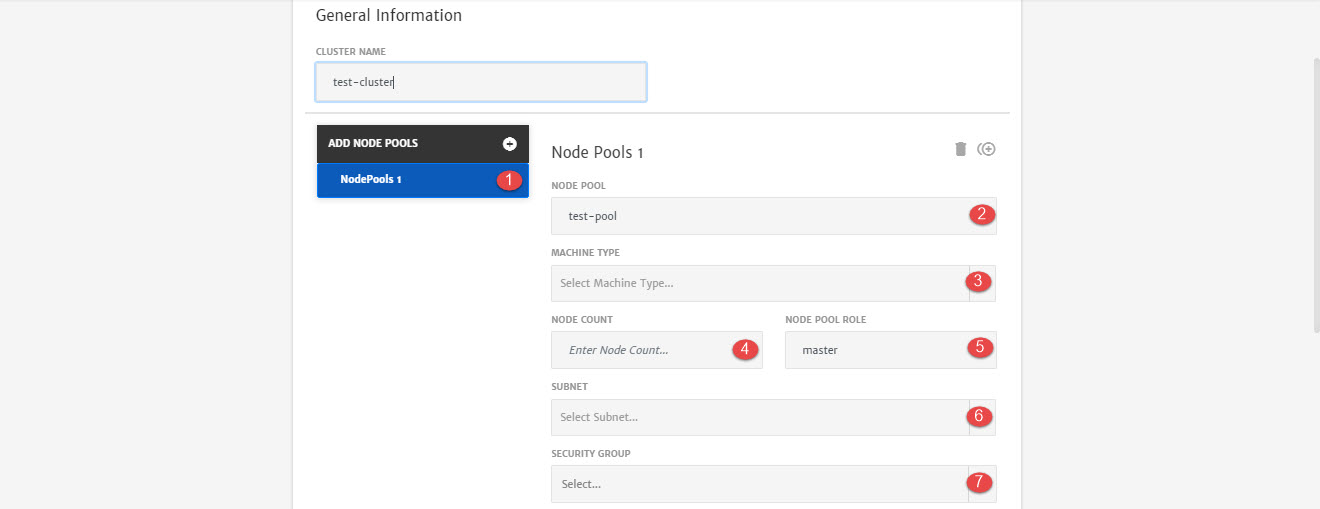
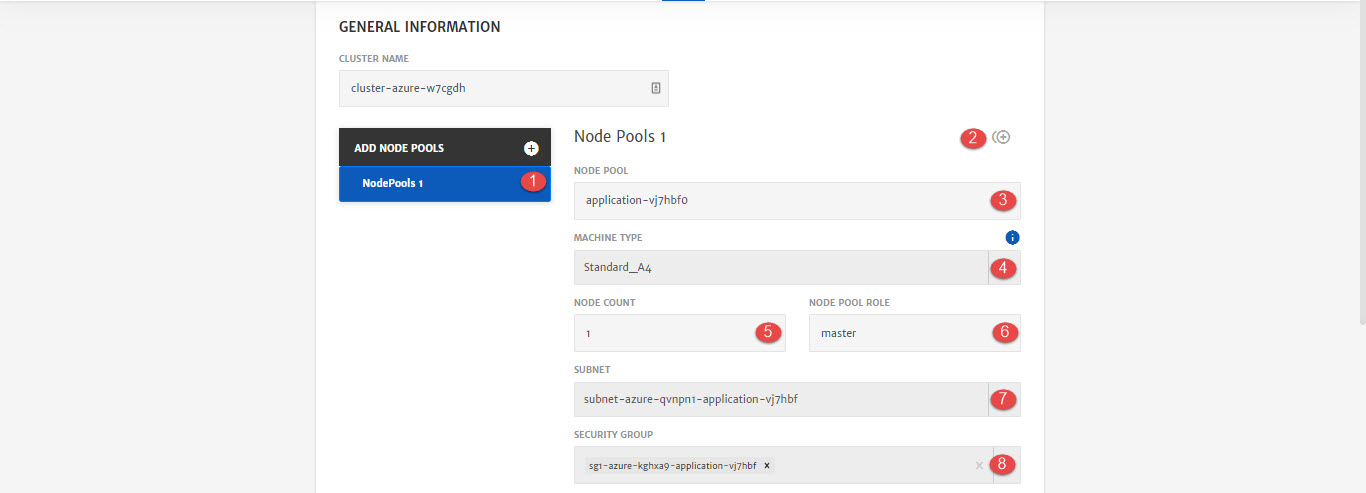
updated-7-6-20

diff --git a/pages/user-guide/getting-started/um-new-cluster/um-new-cluster.md b/pages/user-guide/getting-started/um-new-cluster/um-new-cluster.md
@@ -37,6 +37,12 @@
    - Most of the fields are preconfigured, but you can also customize them.
    - Select **Credential Type** from dropdown, i.e. **Key** in this case, select **Key Type** i.e. **New**, **Enter Key Name** and click **Generate**. A side menu will open, click **Save** and new SSH key will be generated. 
 
+     > While saving the key, you can also download the key for future use by checking **Download Key** option.
+
+   ![9.1](imgs/9.1.jpg)
+
+   ![9.2](imgs/9.2.jpg)
+
 7. Click **Next** at the top right of screen.
 
 8. (Optional) Configure **Kubernetes**.
@@ -55,19 +61,21 @@
 
 10. Design application using **App Designer**.
 
-    > As part of this guide, we will only configure the minimum settings necessary to deploy the container. For detailed configurations, please check our detailed guide by clicking [here](/pages/user-guide/components/container-services/container-services).
+    > As part of this guide, we will only configure the minimum settings necessary to deploy the container. For detailed configurations, please check our detailed guide by clicking [here](/pages/user-guide/components/k8s-resources/container/container).
 
-    - Drag and drop the **Container** in the package canvas from left column.
+    - Drag and drop the **Container** service in K8s resources from left column in to the canvas.
 
     - Click on **Container** icon to configure the settings. (Platform has provided default values for most of the parameters) 
 
       - Specify **Image Name** and **Tag**.
-      - Go to **Environment Variables** menu and add Variable. It is necessary to add at least one variable which in our case is **MYSQL_ROOT_PASSWORD**.
 
       ![2.2](imgs/2.2.jpg)
+
+      - Go to **Environment Variables** menu and **Add Static** Variable. It is necessary to add at least one variable which in our case is **MYSQL_ROOT_PASSWORD**.
+
       ![2.3](imgs/2.3.jpg)
 
-      - Go to the **Ports**, click **Add Port** button and specify the port for Traffic i.e. **8080**
+      - Go to the **Ports**, click **Add Port** button and specify the port for Traffic i.e. **8080**.
 
       ![2.4](imgs/2.4.jpg)
 
@@ -83,8 +91,8 @@
 
 13. Once an application is started, platform automatically redirect to **Logs** tab. Logs help in monitoring of different phases of application deployment.
 
-![4](imgs/4.jpg)
+    ![4](imgs/4.jpg)
 
-11. To check in-depth flow of traffic, go to the **Monitoring** tab.
+14. To check in-depth flow of traffic, go to the **Monitoring** tab.
 
-![5](imgs/5.jpg)
+    ![5](imgs/5.jpg)

diff --git a/pages/user-guide/components/cluster/gcp-cluster/gcp-cluster.md b/pages/user-guide/components/cluster/gcp-cluster/gcp-cluster.md
@@ -6,12 +6,21 @@ Here are the configurations option that will be available to user while configur
 
 ![1](imgs/1.jpg)
 
-1. **Node Pool**: Pool of nodes and complete configurations for that node. Node Pools can be more than one. 1st node pool will always be Master node pool
-2. Name of the **Node Pool**.
-3. **Machine Type**: Machine type based on Cloud Provider selected. 
-4. **Node Count**: Number of Nodes in the node pool.
-5. **Node Pool Role**: Role of node pool i.e. Master or Slave. (First Node Pool will always be master)
-6. **Subnet**: Subnet to associate with the machine depending on network.
+1. **Node Pool**: Pool of nodes and complete configurations for that node. User can add more than 1 Node Pools as well by clicking the **+** icon. 1st node pool will always be Master node pool. All the other node pools will be slave/worker node pools. 
+
+   > Platform provides default values for Master node pools. All the other node pools will need to be configured by the users. 
+
+2. **Clone:** To clone the configurations of current node pool and create another one similar to it. 
+
+3. Name of the **Node Pool**.
+
+4. **Machine Type**: Machine type based on Cloud Provider selected. 
+
+5. **Node Count**: Number of Nodes in the node pool.
+
+6. **Node Pool Role**: Role of node pool i.e. Master or Slave. (First Node Pool will always be master)
+
+7. **Subnet**: Subnet to associate with the machine depending on network.
 
 ![2](imgs/2.jpg)
 
@@ -26,7 +35,7 @@ Here are the configurations option that will be available to user while configur
 1. **Image Family**: Will be listed based on the GCP account used to create cluster. 
 2. **Image Project**: Will be listed based on the image family selected.
 3. **Service Account Email:** Will be listed based on the GCP account used. It needs to have required access level as shown in info message in screenshot above. 
-4. **Tags**: Tags attached with the cluster. They can be attached while configuring cluster. 
+4. **Tags**: Tags attached with the cluster. They can be attached while configuring network. 
 5. **Disk Type:** Type of the disk for root volume e.g. Persistent SSD.
 6. **Disk Size**: Size for the root volume disk.
 7. **Docker Data Volume**: To add docker data volume as well.

diff --git a/pages/user-guide/components/k8s-resources/container/container.md b/pages/user-guide/components/k8s-resources/container/container.md
@@ -103,13 +103,21 @@ Details of the configurations that can be done for Kubernetes Containers are exp
 
 ![9](imgs/9.jpg)
 
-1. **Resource Quota**: To setup resource quota limits. Currently, CPU and Memory resource quota is supported.
+1. **Resource Quota**: A resource quota provides constraints that limit aggregate resource consumption per namespace. It can limit the quantity of objects that can be created in a namespace by type, as well as the total amount of compute resources that may be consumed by resources in that project. 
 
-   > When allocating compute resources, each container may specify a request and a limit value for either CPU or memory. The quota can be configured to quota either value.
+   > Currently, CPU and Memory resource quota is supported.
    >
-   > **Request:** If the quota has a value specified for requests.cpu or requests.memory, then it requires that every incoming container makes an explicit request for those resources.
-   >
-   > **Limit:** If the quota has a value specified for limits.cpu or limits.memory, then it requires that every incoming container specifies an explicit limit for those resources.
+   > When allocating compute resources, each container may specify a request and a limit value for either CPU or memory. 
+
+2. **Limit Resources:** If the quota has a value specified for limits.cpu or limits.memory, then it requires that every incoming container specifies an explicit limit for those resources.
+
+   - Limits CPU: Across all pods in a non-terminal state, the sum of CPU limits cannot exceed this value.
+   - Limits Memory: Across all pods in a non-terminal state, the sum of memory limits cannot exceed this value.
+
+3.  **Request Resources:** If the quota has a value specified for requests.cpu or requests.memory, then it requires that every incoming container makes an explicit request for those resources.
+
+   - Requests CPU: Across all pods in a non-terminal state, the sum of CPU requests cannot exceed this value.
+   - Requests Memory: Across all pods in a non-terminal state, the sum of memory requests cannot exceed this value.
 
 **To Configure Probing:**
 

diff --git a/_sidebar.md b/_sidebar.md
@@ -37,22 +37,12 @@
   - [Scaling](pages/user-guide/components/scaling/scaling)
   - [Serverless](pages/user-guide/components/serverless/serverless)
   - [Slack Integration](pages/user-guide/components/slack-integration/slack-integration)
-  - [Cloud Authorization Level](pages/user-guide/components/cloud-authorization-level/cloud-authorization-level)
-- Tutorials
-  - [Overview](pages/user-guide/tutorials/tutorials)
-  - [Project](pages/user-guide/tutorials/project/project)
-    - [Create Templates](pages/user-guide/tutorials/project/create-templates/lab-1)
-    - [Use Predefined Templates](pages/user-guide/tutorials/project/use-predefined-templates/lab-2)
-    - [Dynamic Variables](pages/user-guide/tutorials/project/dynamic-variables/lab-3)
-    - [Serverless Functions](pages/user-guide/tutorials/project/serverless-functions/lab-4)
-    - [Managed Services](pages/user-guide/tutorials/project/managed-services/lab-5)
-  - [Templates](pages/user-guide/tutorials/templates/templates)
-    - [Cluster](pages/user-guide/tutorials/templates/cluster/cluster)
-    - [Network](pages/user-guide/tutorials/templates/network/network)
-    - [App](pages/user-guide/tutorials/templates/app/app)
+  - [Application Sharing](pages/user-guide/components/application-sharing/application-sharing)
   - [Telemetry](pages/user-guide/tutorials/telemetry/telemetry)
     - [Visualize & Trace Traffic](pages/user-guide/tutorials/telemetry/visualize-trace-traffic/visualize-trace-traffic)
     - [Monitoring](pages/user-guide/tutorials/telemetry/monitoring/monitoring)
     - [Container Logging](pages/user-guide/tutorials/telemetry/container-logging/container-logging)
   - [Continuous Delivery](pages/user-guide/tutorials/continuous-delivery/continuous-delivery)
     - [Deploy Canary Release](pages/user-guide/tutorials/continuous-delivery/deploy-canary-release/deploy-canary-release)
+  - [Cloud Authorization Level](pages/user-guide/components/cloud-authorization-level/cloud-authorization-level)
+- Tutorials

diff --git a/pages/user-guide/getting-started/um-new-op-cluster/um-new-op-cluster.md b/pages/user-guide/getting-started/um-new-op-cluster/um-new-op-cluster.md
@@ -44,19 +44,21 @@
 
 10. Design application using **App Designer**.
 
-    > As part of this guide, we will only configure the minimum settings necessary to deploy the container. For detailed configurations, please check our detailed guide by clicking [here](/pages/user-guide/components/container-services/container-services).
+    > As part of this guide, we will only configure the minimum settings necessary to deploy the container. For detailed configurations, please check our detailed guide by clicking [here](/pages/user-guide/components/k8s-resources/container/container).
 
-    - Drag and drop the **Container** in the package canvas from left column.
+    - Drag and drop the **Container** service in K8s resources from left column in to the canvas.
 
     - Click on **Container** icon to configure the settings. (Platform has provided default values for most of the parameters) 
 
       - Specify **Image Name** and **Tag**.
-      - Go to **Environment Variables** menu and add Variable. It is necessary to add at least one variable which in our case is **MYSQL_ROOT_PASSWORD**.
 
       ![2.2](imgs/2.2.jpg)
+
+      - Go to **Environment Variables** menu and **Add Static** Variable. It is necessary to add at least one variable which in our case is **MYSQL_ROOT_PASSWORD**.
+
       ![2.3](imgs/2.3.jpg)
 
-      - Go to the **Ports**, click **Add Port** button and specify the port for Traffic i.e. **8080**
+      - Go to the **Ports**, click **Add Port** button and specify the port for Traffic i.e. **8080**.
 
       ![2.4](imgs/2.4.jpg)
 
@@ -72,8 +74,8 @@
 
 13. Once an application is started, platform automatically redirect to **Logs** tab. Logs help in monitoring of different phases of application deployment.
 
-![4](imgs/4.jpg)
+    ![4](imgs\4.jpg)
 
-11. To check in-depth flow of traffic, go to the **Monitoring** tab.
+14. To check in-depth flow of traffic, go to the **Monitoring** tab.
 
-![5](imgs/5.jpg)
+    ![5](imgs\5.jpg)

diff --git a/pages/user-guide/getting-started/pm-existing-cluster/pm-existing-cluster.md b/pages/user-guide/getting-started/pm-existing-cluster/pm-existing-cluster.md
@@ -43,19 +43,21 @@
 
 8. Design application using **App Designer**.
 
-   > As part of this guide, we will only configure the minimum settings necessary to deploy the container. For detailed configurations, please check our detailed guide by clicking [here](/pages/user-guide/components/container-services/container-services).
+   > As part of this guide, we will only configure the minimum settings necessary to deploy the container. For detailed configurations, please check our detailed guide by clicking [here](/pages/user-guide/components/k8s-resources/container/container).
 
-   - Drag and drop the **Container** in the package canvas from left column.
+   - Drag and drop the **Container** service in K8s resources from left column in to the canvas.
 
    - Click on **Container** icon to configure the settings. (Platform has provided default values for most of the parameters) 
 
      - Specify **Image Name** and **Tag**.
-     - Go to **Environment Variables** menu and add Variable. It is necessary to add at least one variable which in our case is **MYSQL_ROOT_PASSWORD**.
 
      ![2.2](imgs/2.2.jpg)
+
+     - Go to **Environment Variables** menu and **Add Static** Variable. It is necessary to add at least one variable which in our case is **MYSQL_ROOT_PASSWORD**.
+
      ![2.3](imgs/2.3.jpg)
 
-     - Go to the **Ports**, click **Add Port** button and specify the port for Traffic i.e. **8080**
+     - Go to the **Ports**, click **Add Port** button and specify the port for Traffic i.e. **8080**.
 
      ![2.4](imgs/2.4.jpg)
 
@@ -71,8 +73,8 @@
 
 11. Once an application is started, platform automatically redirect to **Logs** tab. Logs help in monitoring of different phases of application deployment.
 
-![4](imgs/4.jpg)
+    ![4](imgs\4.png)
 
-11. To check in-depth flow of traffic, go to the **Monitoring** tab.
+12. To check in-depth flow of traffic, go to the **Monitoring** tab.
 
-![5](imgs/5.jpg)
+    ![5](imgs/5.jpg)

diff --git a/pages/user-guide/getting-started/pm-new-cluster/pm-new-cluster.md b/pages/user-guide/getting-started/pm-new-cluster/pm-new-cluster.md
@@ -36,19 +36,21 @@
 
 6. Design application using **App Designer**.
 
-   > As part of this guide, we will only configure the minimum settings necessary to deploy the container. For detailed configurations, please check our detailed guide by clicking [here](/pages/user-guide/components/container-services/container-services).
+   > As part of this guide, we will only configure the minimum settings necessary to deploy the container. For detailed configurations, please check our detailed guide by clicking [here](/pages/user-guide/components/k8s-resources/container/container).
 
-   - Drag and drop the **Container** in the package canvas from left column.
+   - Drag and drop the **Container** service in K8s resources from left column in to the canvas.
 
    - Click on **Container** icon to configure the settings. (Platform has provided default values for most of the parameters) 
 
      - Specify **Image Name** and **Tag**.
-     - Go to **Environment Variables** menu and add Variable. It is necessary to add at least one variable which in our case is **MYSQL_ROOT_PASSWORD**.
 
      ![2.2](imgs/2.2.jpg)
+
+     - Go to **Environment Variables** menu and **Add Static** Variable. It is necessary to add at least one variable which in our case is **MYSQL_ROOT_PASSWORD**.
+
      ![2.3](imgs/2.3.jpg)
 
-     - Go to the **Ports**, click **Add Port** button and specify the port for Traffic i.e. **8080**
+     - Go to the **Ports**, click **Add Port** button and specify the port for Traffic i.e. **8080**.
 
      ![2.4](imgs/2.4.jpg)
 
@@ -64,8 +66,8 @@
 
 9. Once an application is started, platform automatically redirect to **Logs** tab. Logs help in monitoring of different phases of application deployment.
 
-![4](imgs/4.jpg)
+   ![4](imgs\4.jpg)
 
-11. To check in-depth flow of traffic, go to the **Monitoring** tab.
+10. To check in-depth flow of traffic, go to the **Monitoring** tab.
 
-![5](imgs/5.jpg)
+    ![5](imgs/5.jpg)

diff --git a/pages/user-guide/components/credentials-profile/credentials-profile.md b/pages/user-guide/components/credentials-profile/credentials-profile.md
@@ -1,8 +1,8 @@
 ## Credentials Profile
 
-Credential profile menu lets you save your credentials for AWS, Azure, GCP and other credentials that might be needed to setup project and for deployment. You can save your credentials for docker registry, APIs etc. These stored credentials can then be later used to configure a project or solution.
+Credential profile menu lets you save your credentials for AWS, Azure, etc and other credentials that might be needed to setup Application for deployment. You can save your credentials for docker registry, APIs etc. These stored credentials can then be later used to configure an Application.
 
-Purpose of this is to make it as easy as possible for the user to deploy the project. CloudPlex aims to provide a seamless experience of deployment. By storing the credentials, user won't have to manually provide the credentials to gain the access of resource everytime and be done with deployment in under 5 minutes. 
+Purpose of this is to make it as easy as possible for the user to deploy the application. CloudPlex aims to provide a seamless experience of deployment. By storing the credentials, user won't have to manually provide the credentials to gain the access of resources everytime and be done with deployment in under 5 minutes. 
 
 Different type of Credentials can be saved and fetched while configuring different modules in the platform. Explained below is the process of storing credentials in platform. 
 
@@ -57,6 +57,8 @@ Cloud Profile can be saved while configuring the Basic Info/General tab of  the 
 7. Select **Team** from drop-down to share access of this profile.
 
 8. Click **Save**. You will now be able to select this profile from drop-down for future applications. 
+
+   > Profiles saved while configuring the Application will also appear in Credentials Profile menu. User can update or edit the saved profiles by navigating to the credential profiles.
 
    ![2](imgs/2.jpg)
 

diff --git a/pages/user-guide/components/cluster/aws-cluster/aws-cluster.md b/pages/user-guide/components/cluster/aws-cluster/aws-cluster.md
@@ -6,13 +6,16 @@ Here are the configurations option that will be available to user while configur
 
 ![1](imgs/1.jpg)
 
-1. **Node Pool**: Pool of nodes and complete configurations for that node. Node Pools can be more than one. 1st node pool will always be Master node pool
-2. Name of the **Node Pool**.
-3. **Machine Type**: Instance type based on Cloud Provider selected. 
-4. **Node Count**: Number of Nodes in the node pool.
-5. **Node Pool Role**: Role of node pool i.e. Master or Slave. (First Node Pool will always be master)
-6. **Subnet**: Subnet to associate with the node depending on network.
-7. **Security Group**: Security Group to associate with the node depending on network.
+1. **Node Pool**: Pool of nodes and complete configurations for that node. User can add more than 1 Node Pools as well by clicking the **+** icon. 1st node pool will always be Master node pool. All the other node pools will be slave/worker node pools. 
+
+   > Platform provides default values for Master node pools. All the other node pools will need to be configured by the users. 
+2. **Clone:** To clone the configurations of current node pool and create another one similar to it. 
+3. Name of the **Node Pool**.
+4. **Machine Type**: Instance type based on Cloud Provider selected. 
+5. **Node Count**: Number of Nodes in the node pool.
+6. **Node Pool Role**: Role of node pool i.e. Master or Slave. (First Node Pool will always be master)
+7. **Subnet**: Subnet to associate with the node depending on network.
+8. **Security Group**: Security Group to associate with the node depending on network.
 
 ![1](imgs/2.jpg)
 
@@ -34,4 +37,4 @@ Here are the configurations option that will be available to user while configur
 
 4. **Docker Data Volume**: To add docker data volume as well.
 
-5. **Down Arrow Button**: To fetch latest AMIs
+5. Fetch **root volume** of image which is provided as **AMI**.

diff --git a/pages/user-guide/components/cluster/azure-cluster/azure-cluster.md b/pages/user-guide/components/cluster/azure-cluster/azure-cluster.md
@@ -6,12 +6,20 @@ Here are the configurations option that will be available to user while configur
 
 ![1](imgs/1.jpg)
 
-1. **Node Pool**: Pool of nodes and complete configurations for that node. Node Pools can be more than one. 1st node pool will always be Master node pool
-2. Name of the **Node Pool**.
+1. **Node Pool**: Pool of nodes and complete configurations for that node. User can add more than 1 Node Pools as well by clicking the **+** icon. 1st node pool will always be Master node pool. All the other node pools will be slave/worker node pools. 
+
+   > Platform provides default values for Master node pools. All the other node pools will need to be configured by the users. 
+
+2. **Clone:** To clone the configurations of current node pool and create another one similar to it. 
+
 3. **Machine Type**: Machine type based on Cloud Provider selected. 
+
 4. **Node Count**: Number of Nodes in the node pool.
+
 5. **Node Pool Role**: Role of node pool i.e. Master or Slave. (First Node Pool will always be master)
+
 6. **Subnet**: Subnet to associate with the machine depending on network.
+
 7. **Security Group**: Security Group to associate with the machine depending on network.
 
 ![2](imgs/2.jpg)
@@ -30,5 +38,5 @@ Here are the configurations option that will be available to user while configur
 4. **Image SKU:** SKU is like an instance of an offer, such as a major release of a distribution e.g. 2016-Datacenter.
 5. **Image Version:**  Version number of an image SKU.
 6. **Enable Boot Diagnostics:** To enable and store in Storage Account. 
-7. **New Storage Account:** To attach new storage account with node.
+7. **New Storage Account:** To attach new storage account with node or you can use any existing Storage Account by providing the **Storage Account Id.**
 8. **Docker Data Volume**: To add docker data volume as well.

diff --git a/pages/user-guide/getting-started/getting-started.md b/pages/user-guide/getting-started/getting-started.md
@@ -8,13 +8,17 @@ Now, lets move to the process of signing up and deployment
 
    ![0](imgs/0.jpg)
 
-2. After email verification, you will be able to login to platform.
+2. (**In case you haven't received verification email**) Click **Resend Activation Email** to resend the email.
+
+   ![0.01](imgs/0.01.jpg)
+
+3. After email verification, you will be able to login to platform.
 
    > First time user signing up using a company domain will have **Super User** access of platform.  For more details on how super user can invite team members, check our guide on Access Management by clicking [here](/pages/user-guide/components/access-management/access-management).
 
    ![0.1](imgs/0.1.jpg)
 
-3. Once logged in, click **Create Application** button to start the application creation wizard. 
+4. Once logged in, click **Create Application** button to start the application creation wizard. 
 
 ![1](imgs/1.jpg)
 
@@ -38,7 +42,7 @@ CloudPlex offers 3 ways of creating and deploying a new application on the cloud
    - Create New On-Premise Kubernetes Cluster
      To use On-Premise machines to create a Kubernetes cluster.
 3. Clone Existing Application
-   Recommended for the users who want to use same configurations or configurations with minor changes of any existing project by cloning it. 
+   Recommended for the users who want to use same configurations or configurations with minor changes of any existing application by cloning it. 
 
 ![1.1](imgs/1.1.jpg)
 

diff --git a/pages/user-guide/components/network/azure-network/azure-network.md b/pages/user-guide/components/network/azure-network/azure-network.md
@@ -2,21 +2,31 @@
 
 Azure Virtual Network (VNet) is the fundamental building block for private network in Azure. VNet enables many types of Azure resources, such as Azure Virtual Machines (VM), to securely communicate with each other, the internet, and on-premises networks.
 
-> It is recommended to have good knowledge of network components before configuring it. To learn more, click [here](https://azure.microsoft.com/en-us/services/virtual-network/).
+> It is recommended to have good knowledge of networking components before configuring it. To learn more, click [here](https://azure.microsoft.com/en-us/services/virtual-network/).
 
 Here are the configurations option that will be available to user while configuring network cluster for Application deployment. 
 
 ![1](imgs/1.jpg)
 
 1. **Network Name**: Name of the network.
+
 2. **Virtual Private Cloud**: VPC to be used for the project. You can use any existing VPC created on cloud or create a new one. 
+
 3. **VPC Name**: Name of the VPC.
+
 4. **CIDR**: IPv4 address in the form of a CIDR block.
+
 5. **Private IP:** To configure private IP.
+
 6. **Subnets**: Tab to configure subnet settings.
+
 7. **Security Groups**: Tab to configure security groups settings.
+
 8. **Gateway:** Tab to configure Internet Gateway.
+
 9. **Route Tables:** Tab to configure Route Tables.
+
+   > Support for Gateway and Route Tables will be added soon in the platform.
 
 ![2](imgs/2.jpg)
 
